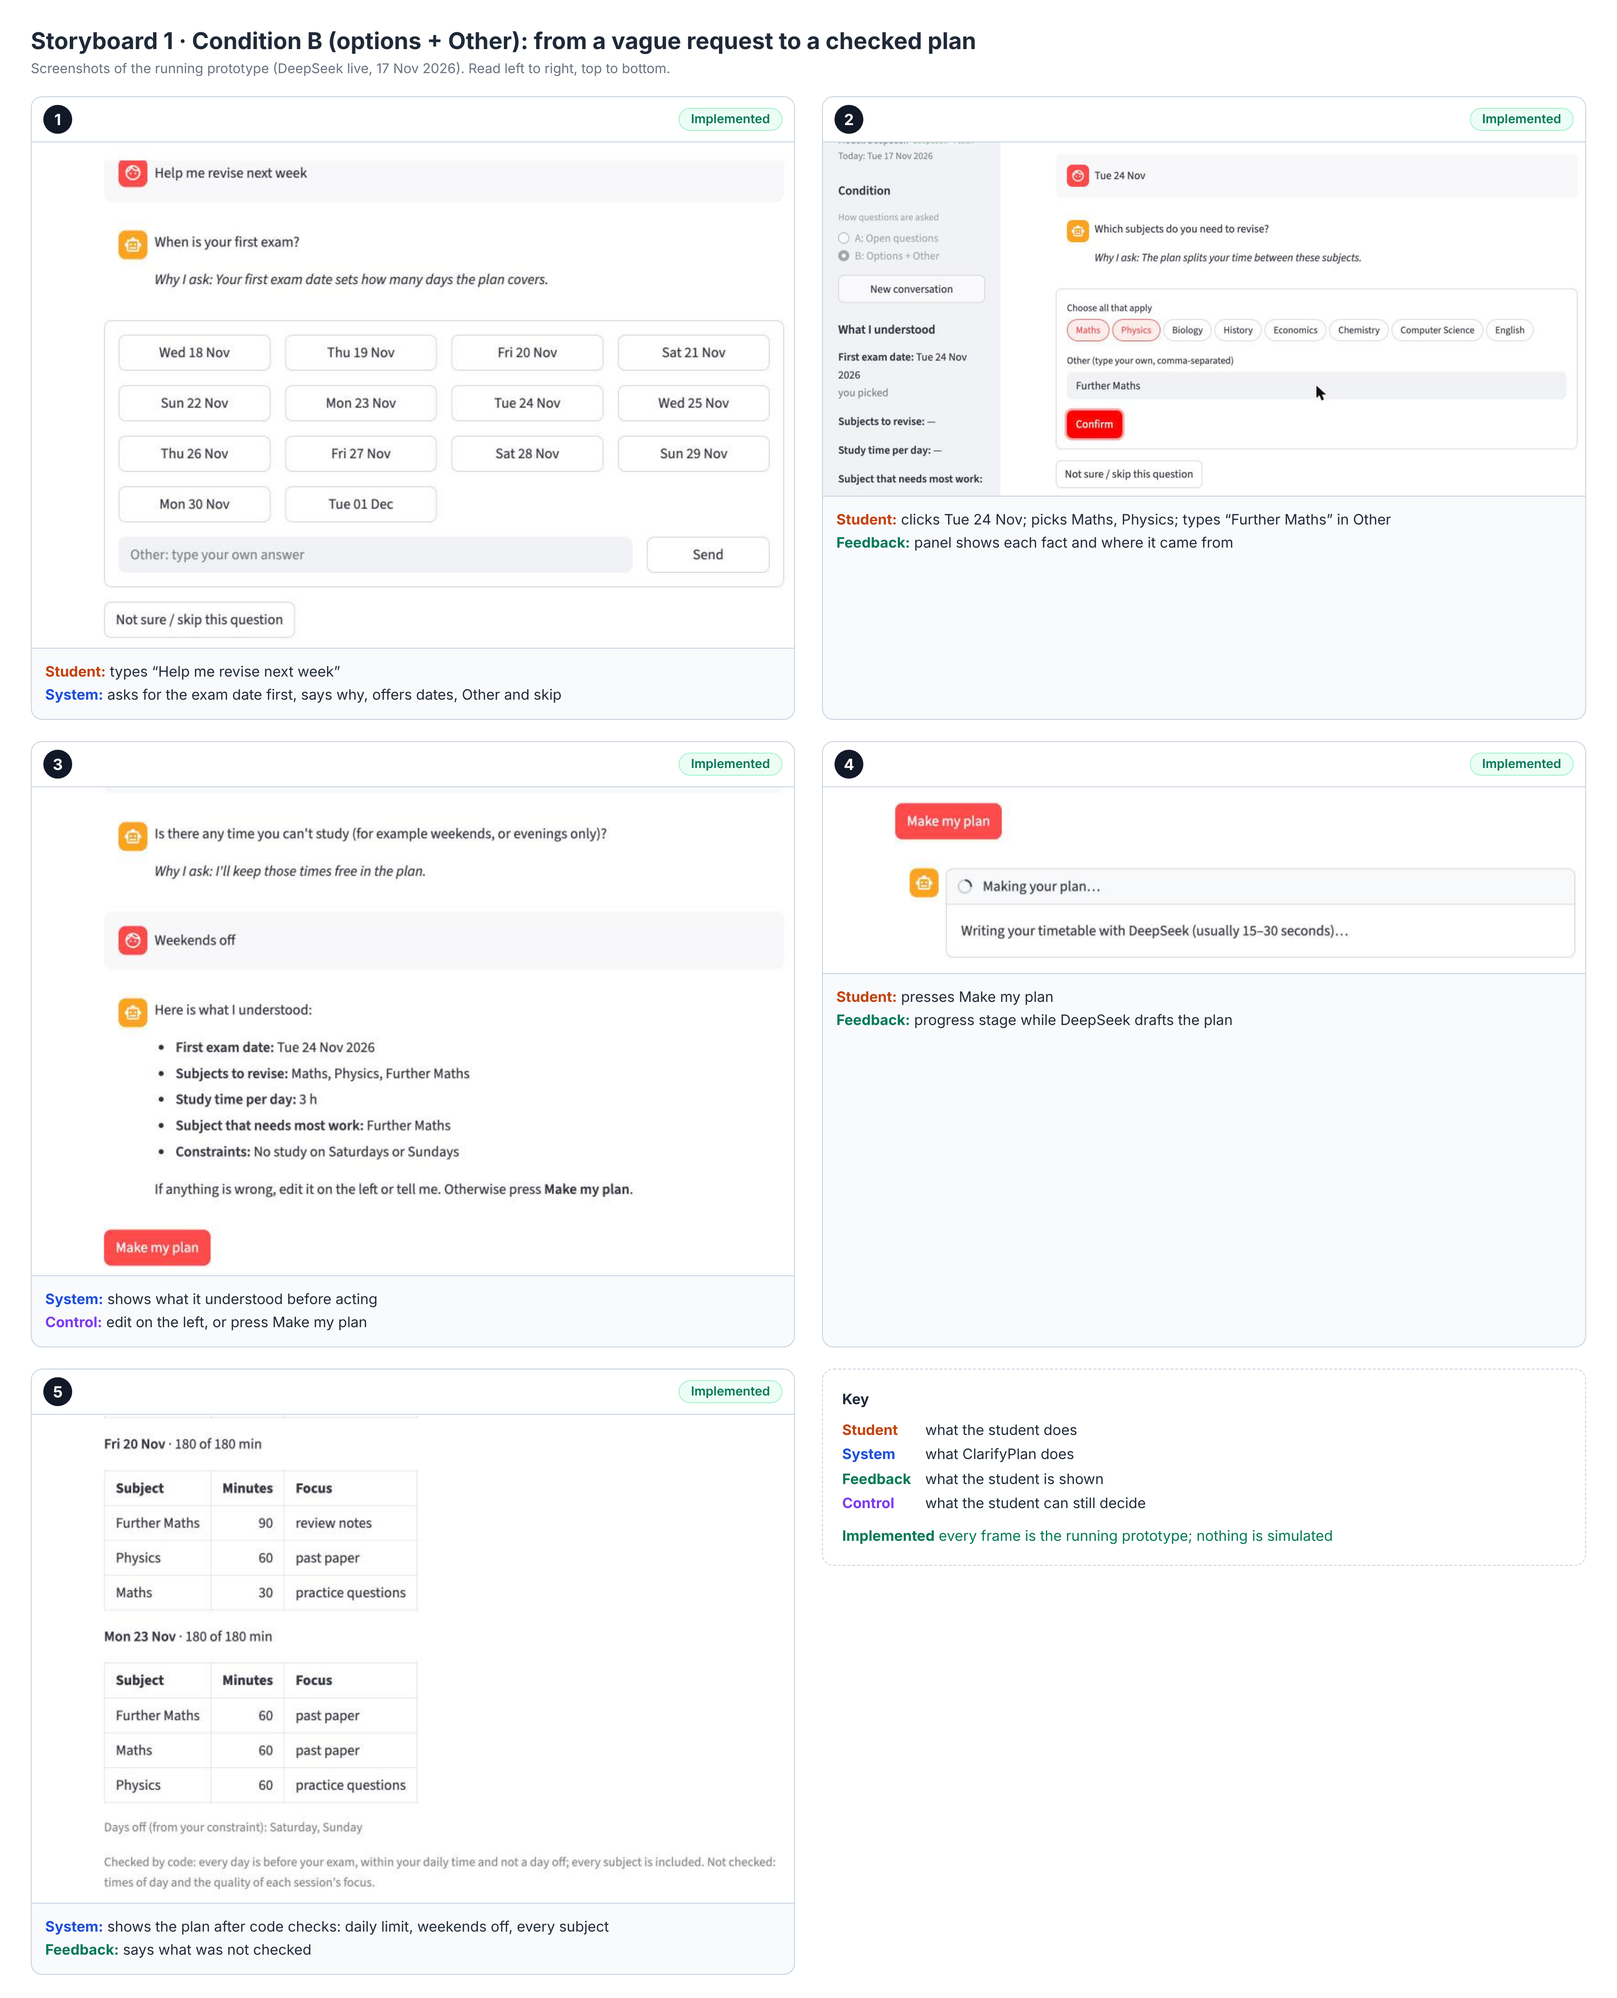
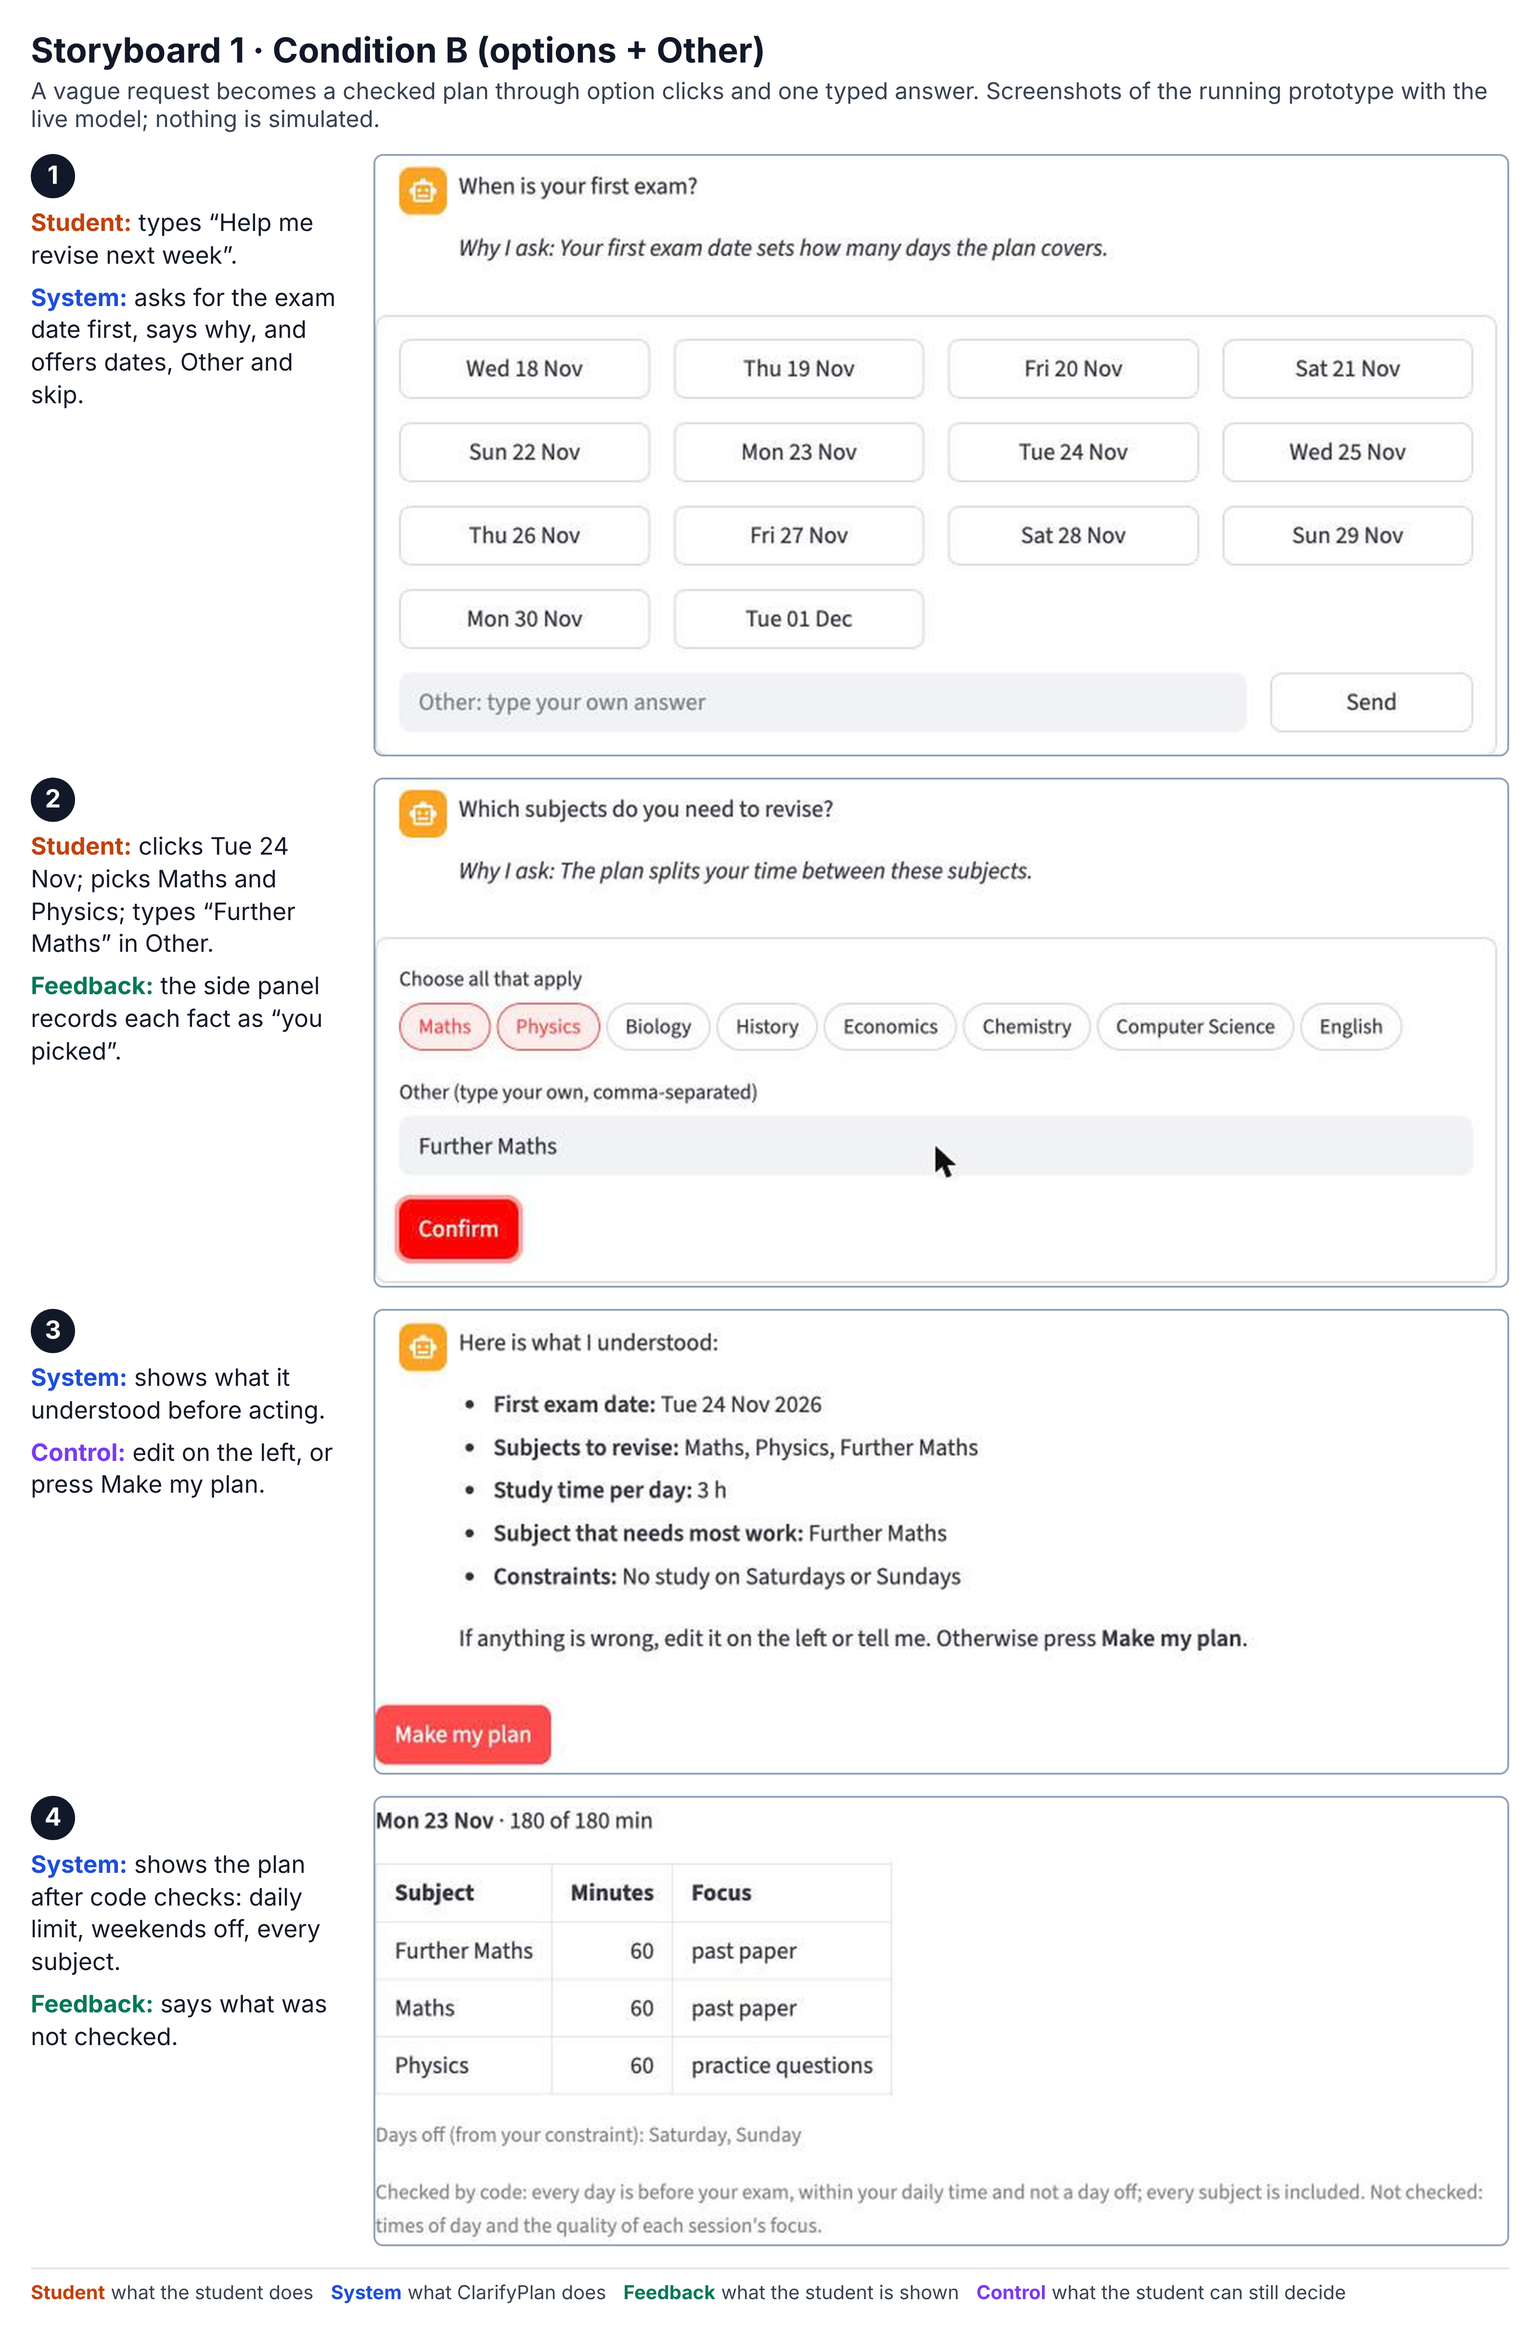
Shorten README and update storyboards

diff --git a/README.md b/README.md
@@ -1,93 +1,64 @@
 # ClarifyPlan
 
+Prose word count: 667 (code and setup commands excluded)
+
 A revision-planning assistant that turns a vague request ("Help me revise next week") into a
 day-by-day plan, asking only for details that change the plan. It compares two ways of asking:
 **Condition A** open questions, and **Condition B** suggested options with a free "Other" answer.
-Module: Intelligent Interactive Systems. A2. Repository: https://github.com/shenfeixiang-123/clarifyplan
-
-**Submitted version:** `v1.0-A2`
+Module: Intelligent Interactive Systems, A2. Submitted version: tag `v1.0-A2`.
 
 ## Project status
-| Part | Status |
-|---|---|
-| Slot extraction with DeepSeek (JSON mode), checked in code | Implemented |
-| Ask policy in code: clarify vague answers, ask missing facts, assume or decline | Implemented |
-| Condition A (open questions) and Condition B (options + Other) | Implemented |
-| State panel showing what was understood, with edits | Implemented |
-| Confirm step, then plan generation with DeepSeek | Implemented |
-| Plan checks in code (dates, daily limit, subject coverage, days off) with one repair attempt | Implemented |
-| "Why I ask" line under every question (both conditions) | Implemented |
-| "Not sure / skip" for every question: visible default, or no plan without a required detail | Implemented |
-| Interaction log (answer time, option vs text, skips, edits) and a per-condition summary script | Implemented |
-| User study comparing A and B | Planned (Phase 3) |
-| Calendar export, memory across sessions | Planned |
+- **Works:** Conditions A and B; ask policy in code (clarify, ask, assume, decline); DeepSeek answer
+  extraction and plan drafting, both checked in code with one repair; editable side panel and confirm
+  step; "Why I ask" and "Not sure / skip" on every question; interaction log and per-condition summary script.
+- **Simulated:** nothing.
+- **Unfinished (Phase 3):** user study comparing A and B; calendar export; memory across sessions.
 
 ## Technology stack
-- **Python 3.9+, Streamlit:** user interface; runs on the server, so the API key never reaches the browser.
-- **DeepSeek API** via the `openai` Python SDK (OpenAI-compatible endpoint): two calls, slot
-  extraction and plan generation, both in JSON mode. Model name set in `.env`.
-- **pytest:** tests for the core logic with a fake client (no network).
-- Undecided: whether to deploy online for the Phase 3 study.
+- **Python 3.9+ and Streamlit:** interface; runs on the server, so the API key never reaches the browser.
+- **DeepSeek API** via the `openai` SDK: two JSON-mode calls, one turns answers into facts, one drafts the plan.
+- **pytest:** unit tests with a fake client (no network).
+- **Undecided:** whether to deploy online for the Phase 3 study.
 
 ## Running or inspecting the work
 ```bash
-python -m venv .venv && source .venv/bin/activate     # Windows: .venv\Scripts\activate
+python -m venv .venv && source .venv/bin/activate   # Windows: .venv\Scripts\activate
 pip install -r requirements.txt
-cp .env.example .env
+cp .env.example .env        # add your own DEEPSEEK_API_KEY and DEEPSEEK_MODEL
 streamlit run app.py
 ```
-- Put your DeepSeek key in `.env` (`DEEPSEEK_API_KEY`). A reviewer supplies their own key the same way;
-  no key is included in this repository. Check the current model name on DeepSeek's Models & Pricing page
-  and set `DEEPSEEK_MODEL`.
-- **Log summary:** `python scripts/summarise_logs.py` prints a per-condition table from `logs/` (pilot use).
-- **Tests:** `python -m pytest -q`. **Prompt cases:** `python scripts/run_prompt_cases.py` (needs a key).
-
-Code map: `core/engine.py` dialogue controller · `core/policy.py` ask policy · `core/llm.py` DeepSeek calls · `core/prompts.py` prompts · `core/validator.py` checks · `core/logger.py` log ·
-`docs/prompt_log.md` prompt versions and test scores.
+No API key is included; reviewers use their own.
+```bash
+python -m pytest -q                    # unit tests
+python scripts/run_prompt_cases.py     # prompt cases (needs a key)
+python scripts/summarise_logs.py       # per-condition table from logs/
+```
+Code: `core/engine.py` dialogue controller, `core/policy.py` ask policy, `core/llm.py` DeepSeek calls,
+`core/prompts.py` prompts, `core/validator.py` checks, `core/logger.py` log.
+Prompt versions and test scores: `docs/prompt_log.md`.
 
 ## Development record
-Significant changes only: what changed, why, and how it was checked.
-Changes dated before the repository was created have no separate commit; they are all in its first commit.
+Significant changes only. The repository was created after development, so they have no separate commits.
 
-| Date | Change | Why | Checked by | Commit |
-|---|---|---|---|---|
-| 2026-11-15 | Project skeleton: engine, ask policy, DeepSeek layer, Streamlit UI | Starting point (see AI assistance) | Read every module; `pytest` passes | — |
-| 2026-11-15 | Removed record/replay mode; reviewers supply their own key | Simpler to run and explain; no recorded data needed for A2 | Tests updated; app run live | — |
-| 2026-11-15 | Unanswered questions are acknowledged; vague mentions of known facts are reported, not ignored; assumed values marked *(assumed)* | Manual test: answering the constraints question with "a few hours" moved on silently | New unit tests; re-run manually | — |
-| 2026-11-15 | Prompt v0.2 → v0.3: tried asking about "next Tuesday", then reverted to reading it as the coming Tuesday | v0.2 over-asked (a false alarm, Lecture 04); the date is shown before planning, so a wrong reading is cheap to fix | Prompt cases c05, c11, c12; manual test | — |
-| 2026-11-15 | Constraint check by named day instead of "any weekend word" (prompt v0.5) | Manual test: "I work on Saturdays" made the code reject Sunday sessions, forced a repair and lost two study days | `blocked_days` tests (7 phrasings); manual re-test kept Sundays | — |
-| 2026-11-15 | Staged progress while planning; visible subject buttons in Condition B; cleaner plan view | Planning took 15–35 s with only a spinner (> 10 s, Lecture 04); subjects were hidden in a dropdown, weakening recognition (Lecture 05) | Manual re-test of both conditions | — |
-| 2026-11-16 | "Why I ask" line under each question | Says why a detail changes the plan (Amershi et al. G11); supports A1's point that questions should be focused (Rahmani et al.) | Unit test; manual run of A and B | — |
-| 2026-11-16 | "Not sure / skip" on every question | Gives students a low-effort way out and makes the autonomy boundary explicit: optional details get a shown default, required ones block the plan | Unit tests for optional and required skips; manual run | — |
-| 2026-11-16 | `scripts/summarise_logs.py` | Turns the interaction log into a per-condition table for a small pilot and for the Phase 3 study | Unit test on generated logs; run on local logs | — |
-| 2026-11-17 | Prompt v0.6: a correction that adds a subject ("also") keeps the existing subjects | Manual test: "Actually I also need to revise chemistry" replaced Physics instead of adding Chemistry (screenshot in `docs/figures/dev_evidence/`) | Prompt cases c15, c16; manual re-test | — |
-| 2026-11-23 | Prompt v0.7: constraints keep the student's meaning | Live test: "I can't study on weekday mornings" was rewritten as "only weekday afternoons and evenings", which the code read as weekends off | Prompt case c17; manual re-test of Condition A | — |
-| 2026-11-23 | The plan model gets the list of available dates from the code | Live test: for an exam 16 days away the first plan used dates past the 14-day window and needed a repair (about 8 s more); counting dates is the code's job (Lecture 08) | Unit test on the prompt; manual re-test passed the checks on the first attempt | — |
-| 2026-11-23 | A day off for part of the day no longer blocks the whole day | Code review: "no study on weekday mornings" would have blocked Monday–Friday | `blocked_days` tests | — |
-| 2026-11-23 | Daily time rounded to quarter hours | "15 minutes a day" was rounded to 0 h | Unit test; prompt case c18; manual run gave a 15-minute plan | — |
-| 2026-11-23 | No plan request when every day before the exam is a day off; the student is told why | Code review: the plan could only fail the checks in that case | Unit test | — |
-| 2026-11-23 | "Subject that needs most work" kept consistent with the subject list | A priority typed via "Other" that was not a subject was never checked; a removed subject stayed marked as hardest; a live test also showed a "kept from earlier" note contradicting the new subject | Unit tests; manual run of Condition B | — |
-| 2026-11-23 | Confirm step says when the plan covers only the next 14 days | Live test: exam 16 days away, but nothing said the last two days were not planned | Unit test; manual run of Condition B | — |
-| 2026-11-23 | The log records why a model reply could not be read (cut off or not JSON) | Live test: two plan requests failed with "not valid JSON" and the cause could not be told from the log | Unit test | — |
+| Change | Why | Checked by |
+|---|---|---|
+| Removed record/replay mode; reviewers use their own key | Simpler to run and explain | Tests updated; app run live |
+| Unanswered or vague answers are acknowledged; assumed values are marked | "A few hours" for the constraints question was passed over silently | Unit tests; manual re-run |
+| "Next Tuesday" read as the coming Tuesday and shown at confirmation (prompt v0.3) | Asking about it was a false alarm (Lecture 04) | Prompt cases c05, c11, c12 |
+| Days off checked by the days named (v0.5); part-day limits keep the day (v0.7) | "Saturdays" removed Sundays; "weekday mornings" blocked Monday–Friday | `blocked_days` tests; prompt case c17 |
+| A correction that adds a subject keeps the others (v0.6) | "I also need to revise chemistry" replaced the list | Prompt cases c15, c16 |
+| "Why I ask" and "Not sure / skip" on every question | Explain why a detail matters (Amershi et al., G11); a low-effort way out with a clear boundary | Unit tests; manual runs of A and B |
+| Progress stages while planning; subject buttons in Condition B | 15–35 s waits with only a spinner (Lecture 04); hidden options weakened recognition (Lecture 05) | Manual re-test |
+| Code gives the plan model the available dates; the 14-day limit is stated at confirmation | First plans used dates past the window and needed a repair | Unit tests; manual re-test passed first time |
+| Smaller fixes (23 Nov): quarter-hour rounding, no plan request when every day is off, consistent priority subject, reason logged when a reply cannot be read | Found in live tests and code review | Unit tests (36 pass); prompt cases 25/25 |
 
 ## AI assistance
-- **Claude (Anthropic):** generated the initial project skeleton (all modules, tests, docs templates)
-  from my design: problem from my A1 review, two conditions, slots.
-  I checked:   I set the scope and the constraints before any code existed, and decided which of Claude's suggestions to keep. I then went through the result module by module, ran the app on my machine and changed what did not match my brief or the lecture criteria.
-- **Claude (Anthropic), testing round on 23 Nov (v0.7):** reviewed the code, ran both conditions
-  with the live model, and drafted the fixes, tests and prompt changes listed for 2026-11-23.
-  I checked: restarted the app and re-tested the weekday-mornings case myself
-  (constraint kept as "no study on weekday mornings", weekdays planned, Geography given the most time);
-  ran pytest (36 passed) and the prompt cases (25/25) on my own machine.
-- **Claude (Anthropic), report drafting:** Built the framework of the report and assisted in generating the figures.
-  I checked: decided the outline and what each section has to argue before drafting, and wrote
-  and revised the text so that every claim traces back to the A1 review, the lecture criteria,
-  the code or the logs. Checked every figure at full size against the current app, re-ran the
-  diagram and storyboard scripts after the last code change, and corrected labels and screenshots
-  that no longer matched.
+- **Claude:** generated the initial project skeleton (all modules, tests, docs templates) from my design: problem from my A1 review, two conditions, slots. I checked: I set the scope and the constraints before any code existed, and decided which of Claude's suggestions to keep. I then went through the result module by module, ran the app on my machine and changed what did not match my brief or the lecture criteria.
+- **Claude, testing round (23 Nov, v0.7):** eviewed the code, ran both conditions with the live model, and drafted the fixes, tests and prompt changes listed for 2026-11-23. I checked: restarted the app and re-tested the weekday-mornings case myself (constraint kept as "no study on weekday mornings", weekdays planned, Geography given the most time); ran pytest (36 passed) and the prompt cases (25/25) on my own machine.
+- **Claude, report drafting:** Built the framework of the report and assisted in generating the figures. I checked: decided the outline and what each section has to argue before drafting, and wrote and revised the text so that every claim traces back to the A1 review, the lecture criteria, the code or the logs. Checked every figure at full size against the current app, re-ran the diagram and storyboard scripts after the last code change, and corrected labels and screenshots that no longer matched.
 
 ## Additional files
-- `docs/figures/`: system diagram, three storyboards and the screenshots they use.
-- `docs/figures/dev_evidence/`: screenshots of problems found during development.
-- `logs/`: created locally when the app runs (one JSONL file per session); not committed.
-  The sidebar's *Download this session's log* button exports the current one.
+- `docs/figures/`: system diagram, storyboards and their screenshots; `dev_evidence/` holds screenshots of
+  problems found during development.
+- `logs/`: created locally when the app runs (one JSONL file per session; not committed). The sidebar's
+  *Download this session's log* button exports the current one.
